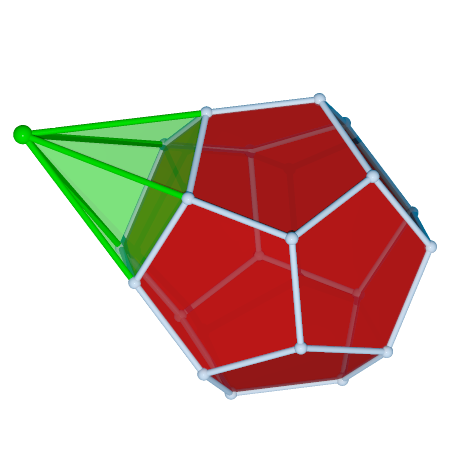
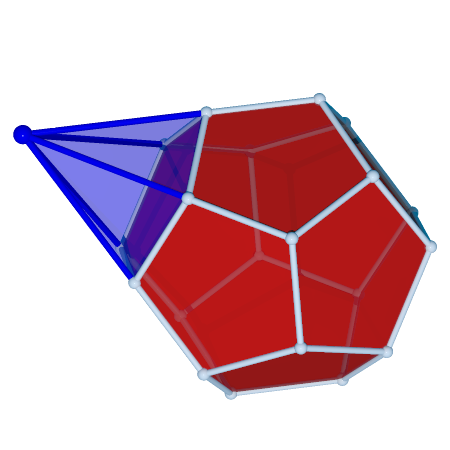
creat a summary page for 3d. Adjust color

Changed region(s): [[0.0311, 0.2489, 0.4667, 0.6222]]

diff --git a/src/summary_3d.js b/src/summary_3d.js
@@ -1,0 +1,112 @@
+import React from "react";
+import App from './App';
+import { Link } from 'react-router-dom';
+
+class Summary3D extends App {
+  constructor(props) {
+    super(props);
+
+    this.state.content = (<div>
+        <div>
+        Before moving on to 4D, let us summarize the stellation process among 
+        the four star polyhedra. Except for the great icosahedron, which is a 
+        stellated icosahedron,
+        the other 
+        three polyhedra can be constructed by stellating the regular dodecahedron.
+        </div>
+
+        <div className = "figure-div">
+        <figure>
+            <img src = {require('./images/polygon/pentagram_inside_outside_2.png')} alt = 'static'/>
+            <figcaption>Connections among the faces of 
+            <br/>the dodecahedron and its stellations</figcaption>
+        </figure>
+        </div>
+        <div>
+        If we start from a dodecahedron and focus on one of the pentagonal faces, we can
+        construct the faces of the stellated polyhedra in the image above.
+        <ul>
+        <li>
+        The face of the dodecahedron is the red pentagon in the middle. 
+        </li>
+        <li>
+        In the first
+        stellation, we extend the edges to form the blue pentagram. The polyhedron is 
+        the small stellated dodecahedron.
+        </li>
+        <li>
+        In the second
+        stellation, we construct the convex hull of the blue pentagram to get
+        the yellow pentagon. The polyhedron is 
+        the great dodecahedron.
+        </li>
+        <li>
+        In the third
+        stellation, we extend the edges of the yellow pentagon to form the purple
+        pentagram. The polyhedron is 
+        the great stellated dodecahedron.
+        </li>
+        </ul>
+        </div>
+
+        <div>
+        See the following images for the whole polyhedra. In each stellation image,
+        I am only showing the extension or addition of one vertex or one face to keep
+        the image simple.
+        </div>
+
+        <div className = "figure-div">
+        <figure>
+            <img src = {require('./images/Dodecahedron/pov_whole_Dodecahedron.png')} alt = 'static'/>
+            <figcaption>Step 0: Regular dodecahedron</figcaption>
+        </figure>
+        </div>
+
+        <div className = "figure-div">
+        <figure>
+            <img src = {require('./images/Dodecahedron/stellated_dodecahedron.png')} alt = 'static'/>
+            <figcaption>From 0 to 1: Stellating the dodecahedron</figcaption>
+        </figure>
+        <figure>
+            <img src = {require('./images/SmallStellatedDodecahedron/pov_whole_SmallStellatedDodecahedron.png')} alt = 'static'/>
+            <figcaption>Step 1: Small stellated dodecahedron {'{'}5/2, 5{'}'}</figcaption>
+        </figure>
+        </div>
+
+        <div className = "figure-div">
+        <figure>
+            <img src = {require('./images/SmallStellatedDodecahedron/stellated_dodecahedron_4.png')} alt = 'static'/>
+            <figcaption>From 1 to 2: Stellating the small stellated dodecahedron</figcaption>
+        </figure>
+        <figure>
+            <img src = {require('./images/GreatDodecahedron/pov_whole_GreatDodecahedron.png')} alt = 'static'/>
+            <figcaption>Step 2: Great dodecahedron {'{'}5, 5/2{'}'}</figcaption>
+        </figure>
+        </div>
+
+        <div className = "figure-div">
+        <figure>
+            <img src = {require('./images/GreatDodecahedron/stellated_dodecahedron_3.png')} alt = 'static'/>
+            <figcaption>From 2 to 3: Stellating the great dodecahedron</figcaption>
+        </figure>
+        <figure>
+            <img src = {require('./images/GreatStellatedDodecahedron/pov_whole_GreatStellatedDodecahedron.png')} alt = 'static'/>
+            <figcaption>Step 3: Great stellated dodecahedron {'{'}5/2, 3{'}'}</figcaption>
+        </figure>
+        </div>
+
+        <div>
+        At the end, I'd like to mention the great icosahedron. It is the only stellation 
+        of the regular icosahedron as a regular star polyhedron. If you choose to 
+        stellate the icosahedron in other ways, you may get star polyhedra with 
+        non-regular faces, or non-regular vertex figures, or a compound.
+        </div>
+	</div>)
+    ;
+
+    this.state.contentHeader = (<span>Summary of the stellation process in 3D</span>)
+  }
+}
+
+export default Summary3D;
+

diff --git a/src/polyhedron_5_52.js b/src/polyhedron_5_52.js
@@ -61,14 +61,24 @@ class Polyhedron_5_52 extends App {
         Overall, we extend <strong>each face</strong> of dodecahedron 
         to get a bigger pentagon. 
         
-        Another view is that an edge is the intersection of the "north face"
-        and a face in the southern hemisphere (second image below).
         <div className = "figure-div">
         <figure>
             <img src = {require('./images/polygon/pentagram_inside_outside.png')} alt = 'static'/>
-            <figcaption>Connections among faces of <br/>dodecahedron (red), 
-            <br/>small stellated dodecahedron (blue edges), <br/>and great dodecahedron (green edges)</figcaption>
+            <figcaption>Connections among the faces of <br/>the dodecahedron (red), 
+            <br/>the small stellated dodecahedron (blue edges), 
+            <br/>and the great dodecahedron (yellow edges)</figcaption>
         </figure>
+        <figure>
+            <img src = {require('./images/SmallStellatedDodecahedron/stellated_dodecahedron_4.png')} alt = 'static'/>
+            <figcaption>Extend a face of the small stellated dodecahedron</figcaption>
+        </figure>
+        </div>
+
+        If we directly stellate the dodecahedron to get the great dodecahedron, 
+        we extend the "north face" and a face in the southern hemisphere until they meet,
+        to get an edge.
+
+        <div className = "figure-div">
         <figure>
             <img src = {require('./images/Dodecahedron/stellated_dodecahedron_2.png')} alt = 'static'/>
             <figcaption>Extend two faces to get an new edge</figcaption>

diff --git a/src/polyhedron_52_3.js b/src/polyhedron_52_3.js
@@ -63,9 +63,10 @@ class Polyhedron_52_3 extends App {
         <div className = "figure-div">
         <figure>
             <img src = {require('./images/polygon/pentagram_inside_outside_2.png')} alt = 'static'/>
-            <figcaption>Connections among faces of <br/>dodecahedron (red), 
-            <br/>small stellated dodecahedron (blue edges), <br/>great dodecahedron (green edges), 
-            <br/>great stellated dodecahedron (purple edges) </figcaption>
+            <figcaption>Connections among the faces of <br/>the dodecahedron (red), 
+            <br/>the small stellated dodecahedron (blue edges), 
+            <br/>the great dodecahedron (yellow edges), 
+            <br/>the great stellated dodecahedron (purple edges) </figcaption>
         </figure>
         <figure>
             <img src = {require('./images/GreatDodecahedron/stellated_dodecahedron_3.png')} alt = 'static'/>

diff --git a/src/index.js b/src/index.js
@@ -14,6 +14,7 @@ import Polyhedron_52_3 from './polyhedron_52_3';
 import Polyhedron_52_5 from './polyhedron_52_5';
 import Polyhedron_5_3 from './polyhedron_5_3';
 import Polyhedron_5_52 from './polyhedron_5_52';
+import Summary3D from './summary_3d';
 
 import Intro4D from './intro_4d';
 import Polytope_5_3_3 from './polytope_5_3_3';
@@ -44,6 +45,7 @@ ReactDOM.render(
         <Route path='/polyhedron_52_5' component={Polyhedron_52_5} />
         <Route path='/polyhedron_5_3' component={Polyhedron_5_3} />
         <Route path='/polyhedron_5_52' component={Polyhedron_5_52} />
+        <Route path='/summary_3d' component={Summary3D} />
         <Route path='/intro_4d' component={Intro4D} />
         <Route path='/polytope_5_3_3' component={Polytope_5_3_3} />
         <Route path='/polytope_3_3_5' component={Polytope_3_3_5} />

diff --git a/src/pentagram.js b/src/pentagram.js
@@ -111,7 +111,7 @@ class Pentagram extends App {
                 <br/>
                 <div>
                 We can draw both processes in the same picture as below. In the core of the 
-                pentagram, we have a red pentagon. On the outside we have a pentagon with green edges. The pentagram can be
+                pentagram, we have a red pentagon. On the outside we have a pentagon with yellow edges. The pentagram can be
                 created by stellating the inner pentagon or faceting the outer pentagon.
                 </div>
                 <div className = "figure-div">

diff --git a/src/sidebar_content.js b/src/sidebar_content.js
@@ -87,7 +87,9 @@ const SidebarContent = props => {
         <Link to='/polyhedron_3_52' style={styles.sidebarLink}> 
           Great icosahedron
         </Link>
-
+        <Link to='/summary_3d' style={styles.sidebarLink}> 
+          Summary of stellation in 3D
+        </Link>
         <h2 style={styles.dividerLine}><span style={styles.dividerText}>4D</span></h2>
         <Link to='/intro_4d' style={styles.sidebarLink}> 
           Overview of 4D star polytopes
